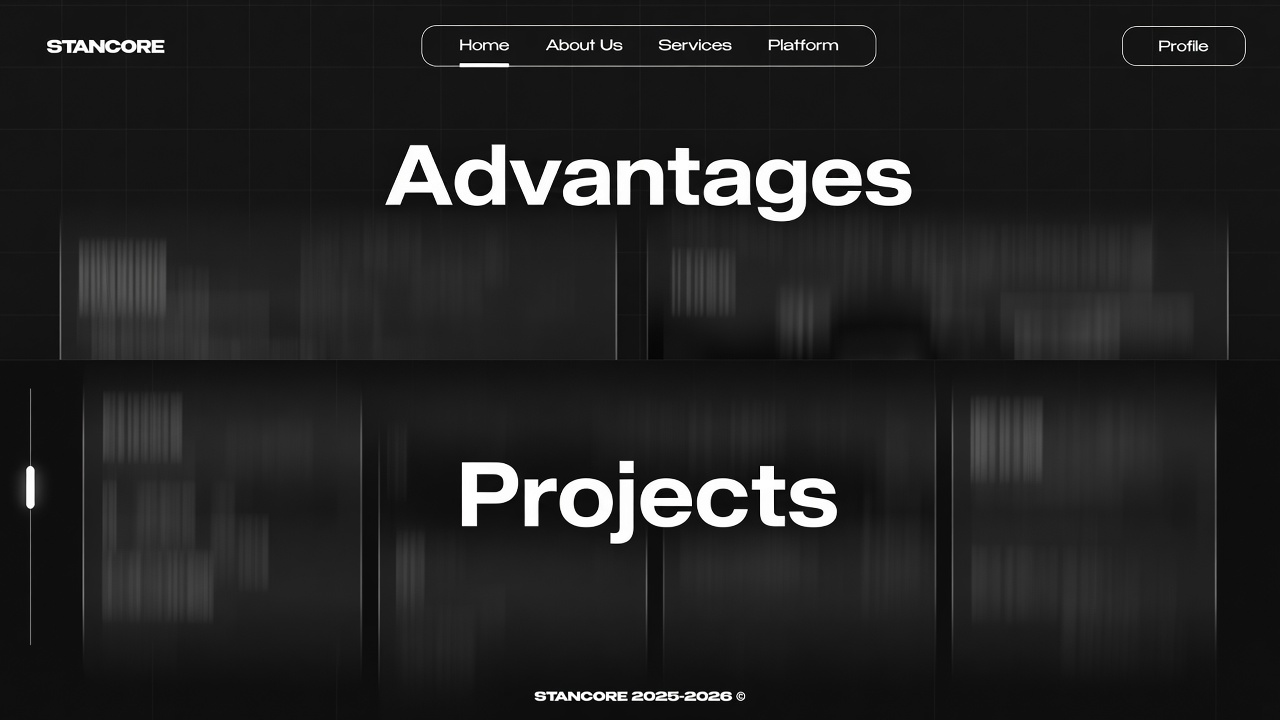
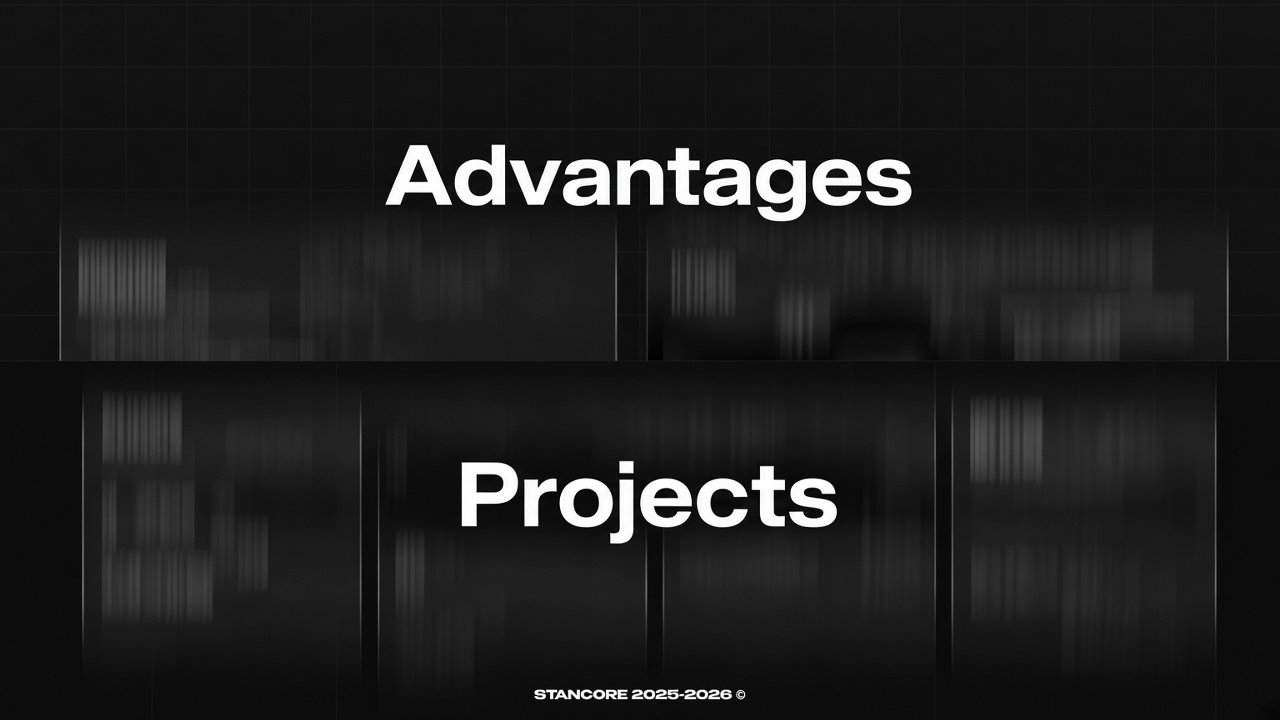
Keep only the sections swipe image without header and rail.

diff --git a/README.ru.md b/README.ru.md
@@ -7,13 +7,7 @@
 Часть экосистемы [Stancore](https://stancore.net). Живые API-доки: [api.stancore.net/docs/anchor-js](https://api.stancore.net/docs/anchor-js).
 
 <p align="center">
-  <img src="examples/assets/hero.jpg" alt="Anchor JS UI — полноэкранная секция с прогресс-рейлом" width="100%">
-</p>
-
-<p align="center">
-  <img src="examples/assets/sections.jpg" alt="Свайп между секциями" width="49%">
-  &nbsp;
-  <img src="examples/assets/navigate.jpg" alt="Продакт-шот Anchor на ноутбуке" width="49%">
+  <img src="examples/assets/sections.jpg" alt="Свайп между секциями" width="100%">
 </p>
 
 Визуальное демо: [`examples/basic.html`](examples/basic.html) (скролл, свайп или drag по рейлу).

diff --git a/README.md b/README.md
@@ -7,13 +7,7 @@ Full-screen section navigation for the web. Replaces native page scrolling with 
 Part of the [Stancore](https://stancore.net) ecosystem. Live API docs: [api.stancore.net/docs/anchor-js](https://api.stancore.net/docs/anchor-js).
 
 <p align="center">
-  <img src="examples/assets/hero.jpg" alt="Anchor JS UI — full-screen section with progress rail" width="100%">
-</p>
-
-<p align="center">
-  <img src="examples/assets/sections.jpg" alt="Section swipe transition" width="49%">
-  &nbsp;
-  <img src="examples/assets/navigate.jpg" alt="Product shot — Anchor on a laptop" width="49%">
+  <img src="examples/assets/sections.jpg" alt="Section swipe transition" width="100%">
 </p>
 
 Open the live-style demo: [`examples/basic.html`](examples/basic.html) (scroll, swipe, or drag the rail).
